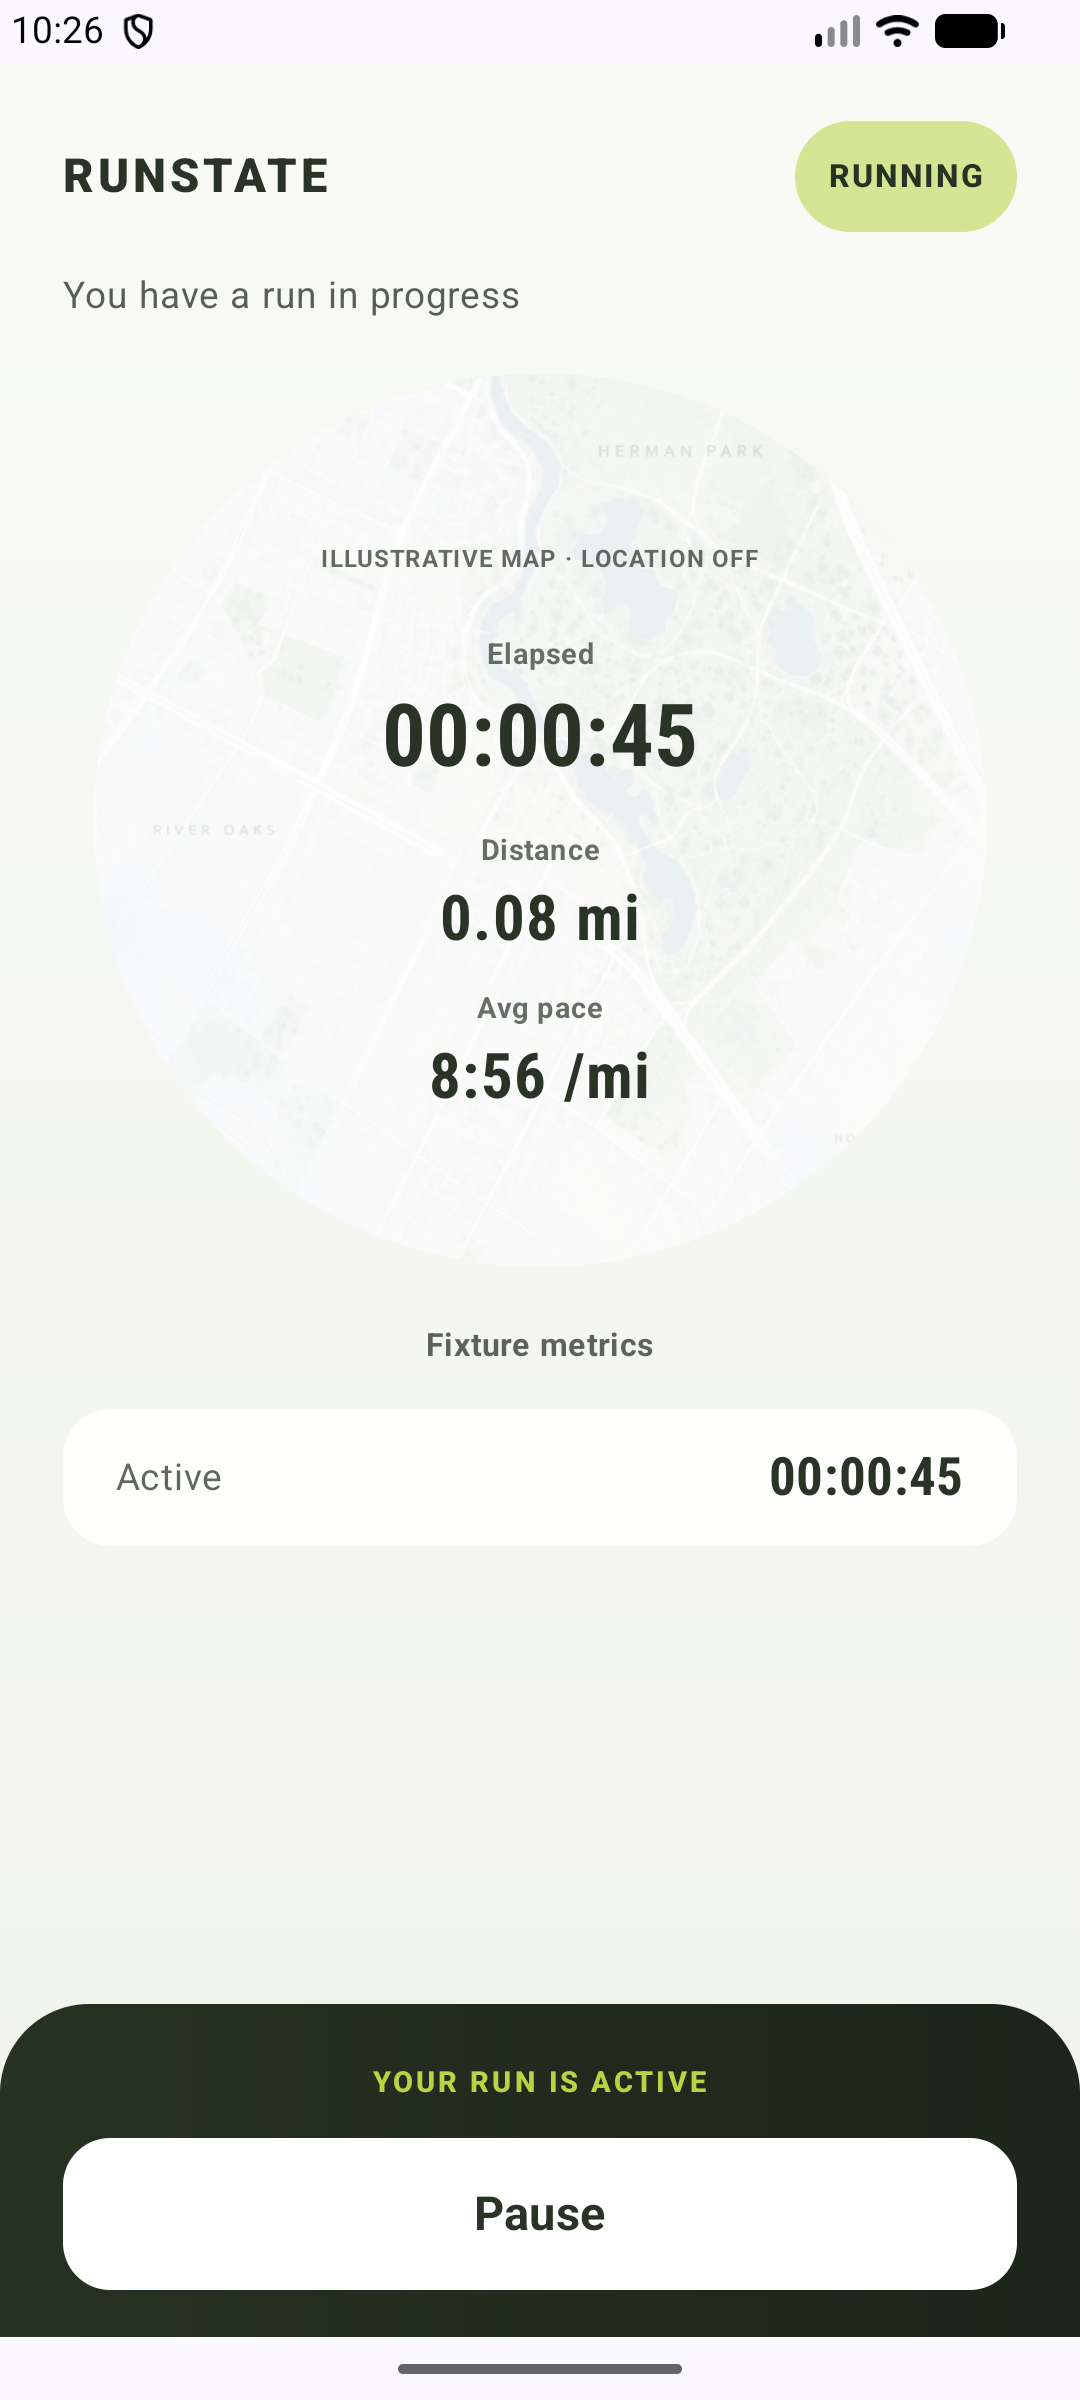
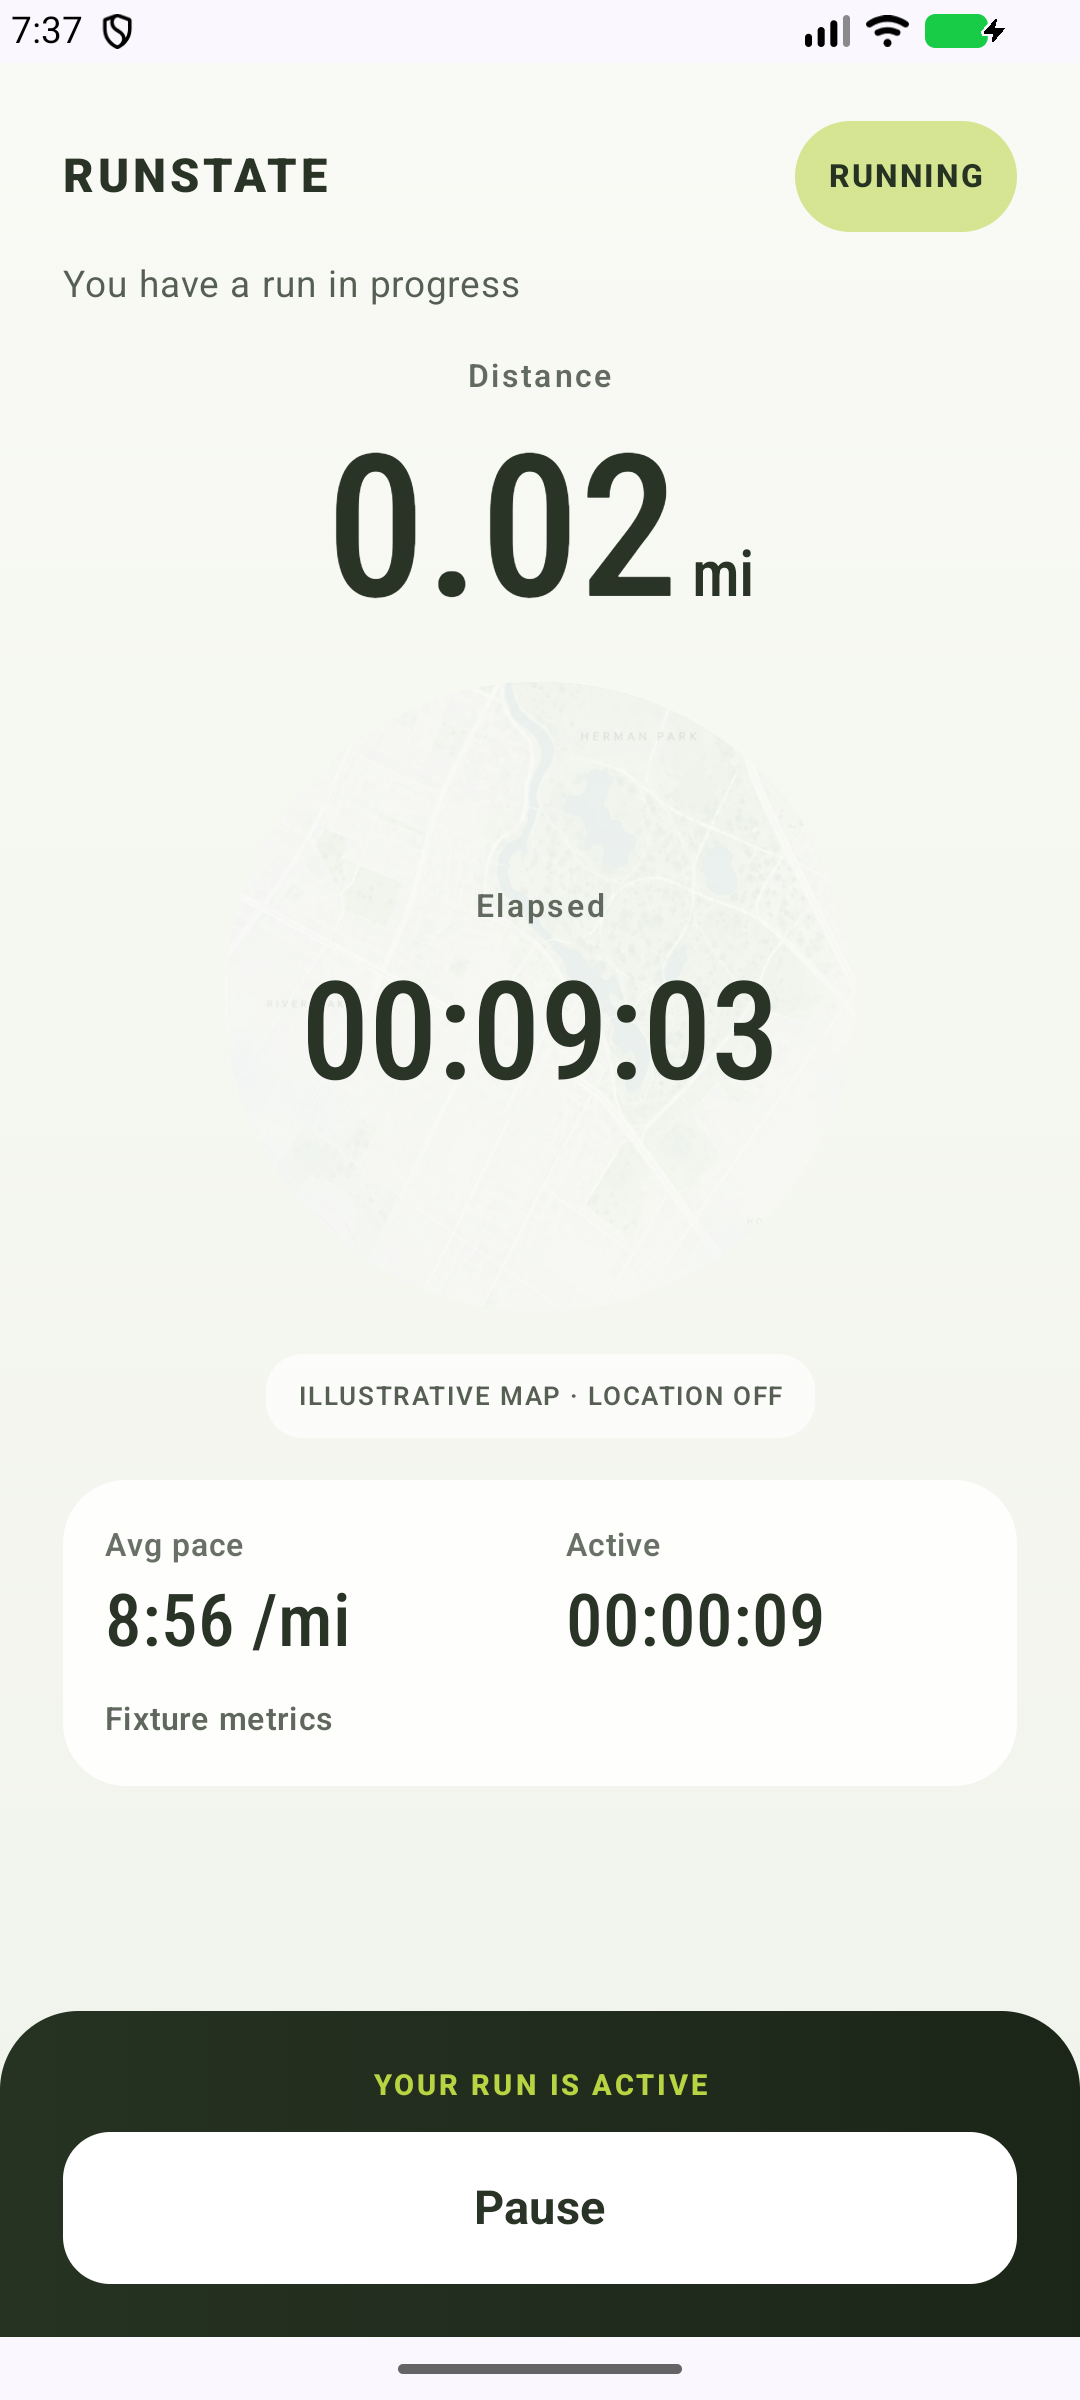
feat(android): improve active run metric hierarchy

diff --git a/android/app/src/main/java/com/runstate/mobile/ui/ActiveRunScreen.kt b/android/app/src/main/java/com/runstate/mobile/ui/ActiveRunScreen.kt
@@ -32,19 +32,27 @@ import androidx.compose.ui.layout.ContentScale
 import androidx.compose.ui.platform.LocalDensity
 import androidx.compose.ui.platform.testTag
 import androidx.compose.ui.res.painterResource
+import androidx.compose.ui.text.AnnotatedString
+import androidx.compose.ui.text.SpanStyle
 import androidx.compose.ui.text.TextStyle
+import androidx.compose.ui.text.buildAnnotatedString
 import androidx.compose.ui.text.font.FontWeight
 import androidx.compose.ui.text.rememberTextMeasurer
 import androidx.compose.ui.text.style.TextAlign
+import androidx.compose.ui.text.withStyle
 import androidx.compose.ui.unit.Constraints
 import androidx.compose.ui.unit.dp
+import androidx.compose.ui.unit.em
 import androidx.compose.ui.unit.sp
 import com.runstate.mobile.R
 
 internal const val ACTIVE_RUN_SCREEN_TAG = "activeRunScreen"
 internal const val ACTIVE_RUN_CIRCLE_TAG = "activeRunCircle"
+internal const val ACTIVE_RUN_DISTANCE_TAG = "activeRunDistance"
 internal const val ACTIVE_RUN_ELAPSED_TAG = "activeRunElapsed"
 internal const val ACTIVE_RUN_METRICS_TAG = "activeRunMetrics"
+internal const val ACTIVE_RUN_PACE_TAG = "activeRunPace"
+internal const val ACTIVE_RUN_ACTIVE_TAG = "activeRunActive"
 
 private val ActiveInk = Color(0xFF293326)
 private val ActiveForest = Color(0xFF263222)
@@ -76,7 +84,7 @@ internal fun ActiveRunScreen(
             .testTag(ACTIVE_RUN_SCREEN_TAG)
             .background(Brush.verticalGradient(listOf(ActiveCream, Color(0xFFF0F3EB))))
     ) {
-        val circleSize = (maxWidth - 48.dp).coerceIn(120.dp, 300.dp)
+        val circleSize = (maxWidth - 48.dp).coerceIn(120.dp, 240.dp)
         val largeText = LocalDensity.current.fontScale > 1.3f
         val mapStatus = when {
             !isGpsRun -> "ILLUSTRATIVE MAP · LOCATION OFF"
@@ -105,7 +113,23 @@ internal fun ActiveRunScreen(
                     lineHeight = 20.sp,
                     modifier = Modifier.fillMaxWidth().padding(top = 10.dp)
                 )
-                Spacer(Modifier.height(22.dp))
+                Spacer(Modifier.height(16.dp))
+
+                Text(
+                    text = "Distance",
+                    color = ActiveInk.copy(alpha = 0.72f),
+                    fontSize = 12.sp,
+                    lineHeight = 18.sp,
+                    fontWeight = FontWeight.SemiBold,
+                    letterSpacing = 1.2.sp
+                )
+                ActiveFittedValue(
+                    value = metrics?.distance ?: "—",
+                    maximumSize = 76,
+                    compactDistanceUnit = true,
+                    modifier = Modifier.padding(top = 4.dp).testTag(ACTIVE_RUN_DISTANCE_TAG)
+                )
+                Spacer(Modifier.height(14.dp))
 
                 Box(
                     modifier = Modifier
@@ -135,7 +159,11 @@ internal fun ActiveRunScreen(
                             letterSpacing = 1.2.sp
                         )
                         Spacer(Modifier.height(8.dp))
-                        ActiveElapsedTime(metrics?.elapsed ?: "—")
+                        ActiveFittedValue(
+                            value = metrics?.elapsed ?: "—",
+                            maximumSize = 68,
+                            modifier = Modifier.testTag(ACTIVE_RUN_ELAPSED_TAG)
+                        )
                     }
                 }
 
@@ -174,7 +202,7 @@ internal fun ActiveRunScreen(
                     )
                 }
 
-                ActiveMetricsPanel(metrics, Modifier.padding(top = 20.dp))
+                ActiveMetricsPanel(metrics, Modifier.padding(top = 16.dp))
                 if (isGpsRun && !gpsServicePresent) {
                     Text(
                         text = gpsMessage ?: "GPS is not recording. Distance may be incomplete.",
@@ -303,21 +331,36 @@ private fun ActiveStateBadge(paused: Boolean) {
     )
 }
 
-/** Fit the whole saved-format timer to the circle without clipping digits or changing the text. */
+/** Fit an exact formatted value, including its unit, without clipping or changing the text. */
 @Composable
-private fun ActiveElapsedTime(elapsed: String) {
+private fun ActiveFittedValue(
+    value: String,
+    maximumSize: Int,
+    modifier: Modifier = Modifier,
+    textAlign: TextAlign = TextAlign.Center,
+    compactDistanceUnit: Boolean = false
+) {
     BoxWithConstraints(modifier = Modifier.fillMaxWidth()) {
         val density = LocalDensity.current
         val measurer = rememberTextMeasurer()
         val style = TextStyle(fontFamily = CompletionNumberFont, fontWeight = FontWeight.Medium)
-        val textSize = remember(elapsed, maxWidth, density, measurer) {
+        // The formatter still owns the complete value; only an existing mi/km suffix changes size.
+        val displayedValue = remember(value, compactDistanceUnit) {
+            if (compactDistanceUnit && (value.endsWith(" mi") || value.endsWith(" km"))) {
+                buildAnnotatedString {
+                    append(value.dropLast(3))
+                    withStyle(SpanStyle(fontSize = 0.32.em)) { append(value.takeLast(3)) }
+                }
+            } else AnnotatedString(value)
+        }
+        val textSize = remember(displayedValue, maximumSize, maxWidth, density, measurer) {
             val availableWidth = with(density) { maxWidth.toPx() }
             var low = 10f
-            var high = 68f
+            var high = maximumSize.toFloat()
             repeat(8) {
                 val candidate = (low + high) / 2f
                 val measured = measurer.measure(
-                    text = elapsed, style = style.copy(fontSize = candidate.sp),
+                    text = displayedValue, style = style.copy(fontSize = candidate.sp),
                     softWrap = false, maxLines = 1, constraints = Constraints()
                 )
                 if (measured.size.width <= availableWidth) low = candidate else high = candidate
@@ -325,13 +368,13 @@ private fun ActiveElapsedTime(elapsed: String) {
             low.sp
         }
         Text(
-            text = elapsed,
+            text = displayedValue,
             color = ActiveInk,
             style = style.copy(fontSize = textSize, lineHeight = (textSize.value * 1.12f).sp),
             maxLines = 1,
             softWrap = false,
-            textAlign = TextAlign.Center,
-            modifier = Modifier.fillMaxWidth().testTag(ACTIVE_RUN_ELAPSED_TAG)
+            textAlign = textAlign,
+            modifier = modifier.fillMaxWidth()
         )
     }
 }
@@ -343,45 +386,25 @@ private fun ActiveMetricsPanel(metrics: RunMetricsDisplay?, modifier: Modifier =
             .fillMaxWidth()
             .clip(RoundedCornerShape(24.dp))
             .background(Color.White.copy(alpha = 0.9f))
-            .padding(20.dp)
+            .padding(16.dp)
             .testTag(ACTIVE_RUN_METRICS_TAG)
     ) {
         val stacked = LocalDensity.current.fontScale > 1.25f || maxWidth < 280.dp
         Column(modifier = Modifier.fillMaxWidth()) {
             if (stacked) {
                 Column(verticalArrangement = Arrangement.spacedBy(16.dp)) {
-                    ActiveMetric("Distance", metrics?.distance ?: "—")
-                    ActiveMetric("Avg pace", metrics?.averagePace ?: "—")
+                    ActiveMetric("Avg pace", metrics?.averagePace ?: "—", ACTIVE_RUN_PACE_TAG)
+                    ActiveMetric("Active", metrics?.active ?: "—", ACTIVE_RUN_ACTIVE_TAG)
                 }
             } else {
                 Row(
                     modifier = Modifier.fillMaxWidth(),
                     horizontalArrangement = Arrangement.spacedBy(20.dp)
                 ) {
-                    ActiveMetric("Distance", metrics?.distance ?: "—", Modifier.weight(1f))
-                    ActiveMetric("Avg pace", metrics?.averagePace ?: "—", Modifier.weight(1f))
-                }
-            }
-            Spacer(Modifier.height(18.dp))
-            Box(Modifier.fillMaxWidth().height(1.dp).background(ActiveInk.copy(alpha = 0.09f)))
-            Spacer(Modifier.height(14.dp))
-            if (stacked) {
-                ActiveMetric("Active", metrics?.active ?: "—", valueSize = 22)
-            } else {
-                Row(
-                    modifier = Modifier.fillMaxWidth(),
-                    horizontalArrangement = Arrangement.SpaceBetween,
-                    verticalAlignment = Alignment.CenterVertically
-                ) {
-                    Text("Active", color = ActiveInk.copy(alpha = 0.74f), fontSize = 12.sp)
-                    Text(
-                        text = metrics?.active ?: "—",
-                        color = ActiveInk,
-                        fontSize = 22.sp,
-                        fontFamily = CompletionNumberFont,
-                        fontWeight = FontWeight.Medium,
-                        maxLines = 1
-                    )
+                    ActiveMetric("Avg pace", metrics?.averagePace ?: "—", ACTIVE_RUN_PACE_TAG,
+                        Modifier.weight(1f))
+                    ActiveMetric("Active", metrics?.active ?: "—", ACTIVE_RUN_ACTIVE_TAG,
+                        Modifier.weight(1f))
                 }
             }
             Text(
@@ -397,7 +420,7 @@ private fun ActiveMetricsPanel(metrics: RunMetricsDisplay?, modifier: Modifier =
 }
 
 @Composable
-private fun ActiveMetric(label: String, value: String, modifier: Modifier = Modifier, valueSize: Int = 28) {
+private fun ActiveMetric(label: String, value: String, valueTag: String, modifier: Modifier = Modifier) {
     Column(modifier = modifier) {
         Text(
             text = label,
@@ -406,14 +429,11 @@ private fun ActiveMetric(label: String, value: String, modifier: Modifier = Modi
             lineHeight = 18.sp,
             fontWeight = FontWeight.SemiBold
         )
-        Text(
-            text = value,
-            color = ActiveInk,
-            fontFamily = CompletionNumberFont,
-            fontSize = valueSize.sp,
-            fontWeight = FontWeight.Medium,
-            lineHeight = (valueSize + 6).sp,
-            modifier = Modifier.padding(top = 3.dp)
+        ActiveFittedValue(
+            value = value,
+            maximumSize = 28,
+            textAlign = TextAlign.Start,
+            modifier = Modifier.padding(top = 3.dp).testTag(valueTag)
         )
     }
 }

diff --git a/android/app/src/androidTest/java/com/runstate/mobile/ui/RunStateScreenTest.kt b/android/app/src/androidTest/java/com/runstate/mobile/ui/RunStateScreenTest.kt
@@ -1850,6 +1850,55 @@ class RunStateScreenTest {
     }
 
     @Test
+    fun activeHierarchyKeepsExactMetricValuesAtLargeTextSizes() {
+        var paused by mutableStateOf(false)
+        var fontScale by mutableStateOf(1.5f)
+        val metrics = fixtureMetrics().copy(
+            distance = "1234.56 km",
+            elapsed = "100:59:59",
+            averagePace = "123:59 /km",
+            active = "100:59:59"
+        )
+        composeTestRule.setContent {
+            val density = LocalDensity.current
+            CompositionLocalProvider(LocalDensity provides Density(density.density, fontScale)) {
+                ActiveRunScreen(paused, metrics, false, true,
+                    { paused = true }, { paused = false }, {},
+                    modifier = Modifier.size(360.dp, 480.dp))
+            }
+        }
+
+        fun assertWholeValue(tag: String, value: String) {
+            val node = composeTestRule.onNodeWithTag(tag)
+            node.performScrollTo().assertTextEquals(value).assertIsDisplayed()
+            val layouts = mutableListOf<TextLayoutResult>()
+            node.performSemanticsAction(SemanticsActions.GetTextLayoutResult) { it(layouts) }
+            assertFalse(layouts.single().hasVisualOverflow)
+        }
+
+        for (scale in listOf(1.5f, 2f)) {
+            composeTestRule.runOnIdle { fontScale = scale }
+            composeTestRule.onNodeWithText(PAUSE).assertIsDisplayed()
+            assertWholeValue(ACTIVE_RUN_DISTANCE_TAG, metrics.distance)
+            assertEquals(1, composeTestRule.onAllNodesWithText(metrics.distance).fetchSemanticsNodes().size)
+            val distance = composeTestRule.onNodeWithTag(ACTIVE_RUN_DISTANCE_TAG).fetchSemanticsNode()
+            val circle = composeTestRule.onNodeWithTag(ACTIVE_RUN_CIRCLE_TAG).fetchSemanticsNode()
+            assertTrue(distance.positionInRoot.y + distance.size.height <= circle.positionInRoot.y)
+            assertWholeValue(ACTIVE_RUN_ELAPSED_TAG, metrics.elapsed)
+            assertWholeValue(ACTIVE_RUN_PACE_TAG, metrics.averagePace)
+            assertWholeValue(ACTIVE_RUN_ACTIVE_TAG, metrics.active)
+            composeTestRule.onNodeWithText(metrics.sourceLabel).performScrollTo().assertIsDisplayed()
+
+            composeTestRule.onNodeWithText(PAUSE).performClick()
+            composeTestRule.onNodeWithText(RESUME).assertIsDisplayed()
+            composeTestRule.onNodeWithTag(HOLD_TO_STOP_TAG).assertIsDisplayed()
+            composeTestRule.onNodeWithText("Active time and distance are paused. Elapsed includes breaks.")
+                .performScrollTo().assertIsDisplayed()
+            composeTestRule.onNodeWithText(RESUME).performClick()
+        }
+    }
+
+    @Test
     fun activeGpsWaitsForRecordedMovementBeforeClaimingRecording() {
         var measured by mutableStateOf(false)
         composeTestRule.setContent {
